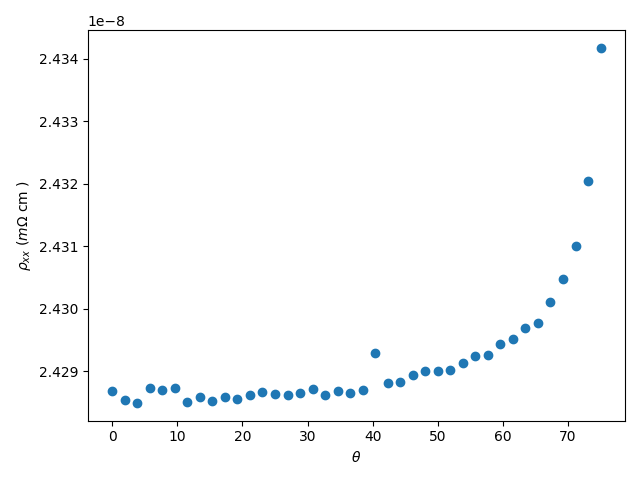
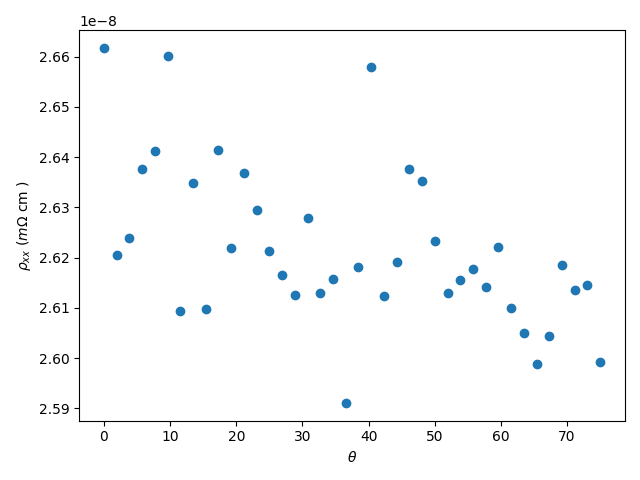
increased magnetic field

diff --git a/FREEscalingtests_thetalist.py b/FREEscalingtests_thetalist.py
@@ -23,7 +23,7 @@ print(f"Time taken to create initialcurves = {endtime - starttime}")
 starttime = time()
 def getsigma(theta):
     #Bz stays constant and field angle changes
-    B = [(0.01*np.sin(np.deg2rad(theta))*np.cos(phi_rad))/(1*np.cos(np.deg2rad(theta))),(0.01*np.sin(np.deg2rad(theta))*np.sin(phi_rad))/(1*np.cos(np.deg2rad(theta))),0.01]
+    B = [(1*np.sin(np.deg2rad(theta))*np.cos(phi_rad))/(1*np.cos(np.deg2rad(theta))),(1*np.sin(np.deg2rad(theta))*np.sin(phi_rad))/(1*np.cos(np.deg2rad(theta))),1]
     orbitsinstance = orbitcreation.NewOrbits(dispersionInstance,initialpointsInstance)
     orbitsinstance.createOrbits(B,termination_resolution=0.05,mult_factor=40,sampletimes= np.linspace(0,1,100000),rtol=1e-11,atol=1e-12)
     orbitsinstance.createOrbitsEQS(integration_resolution=0.05)
